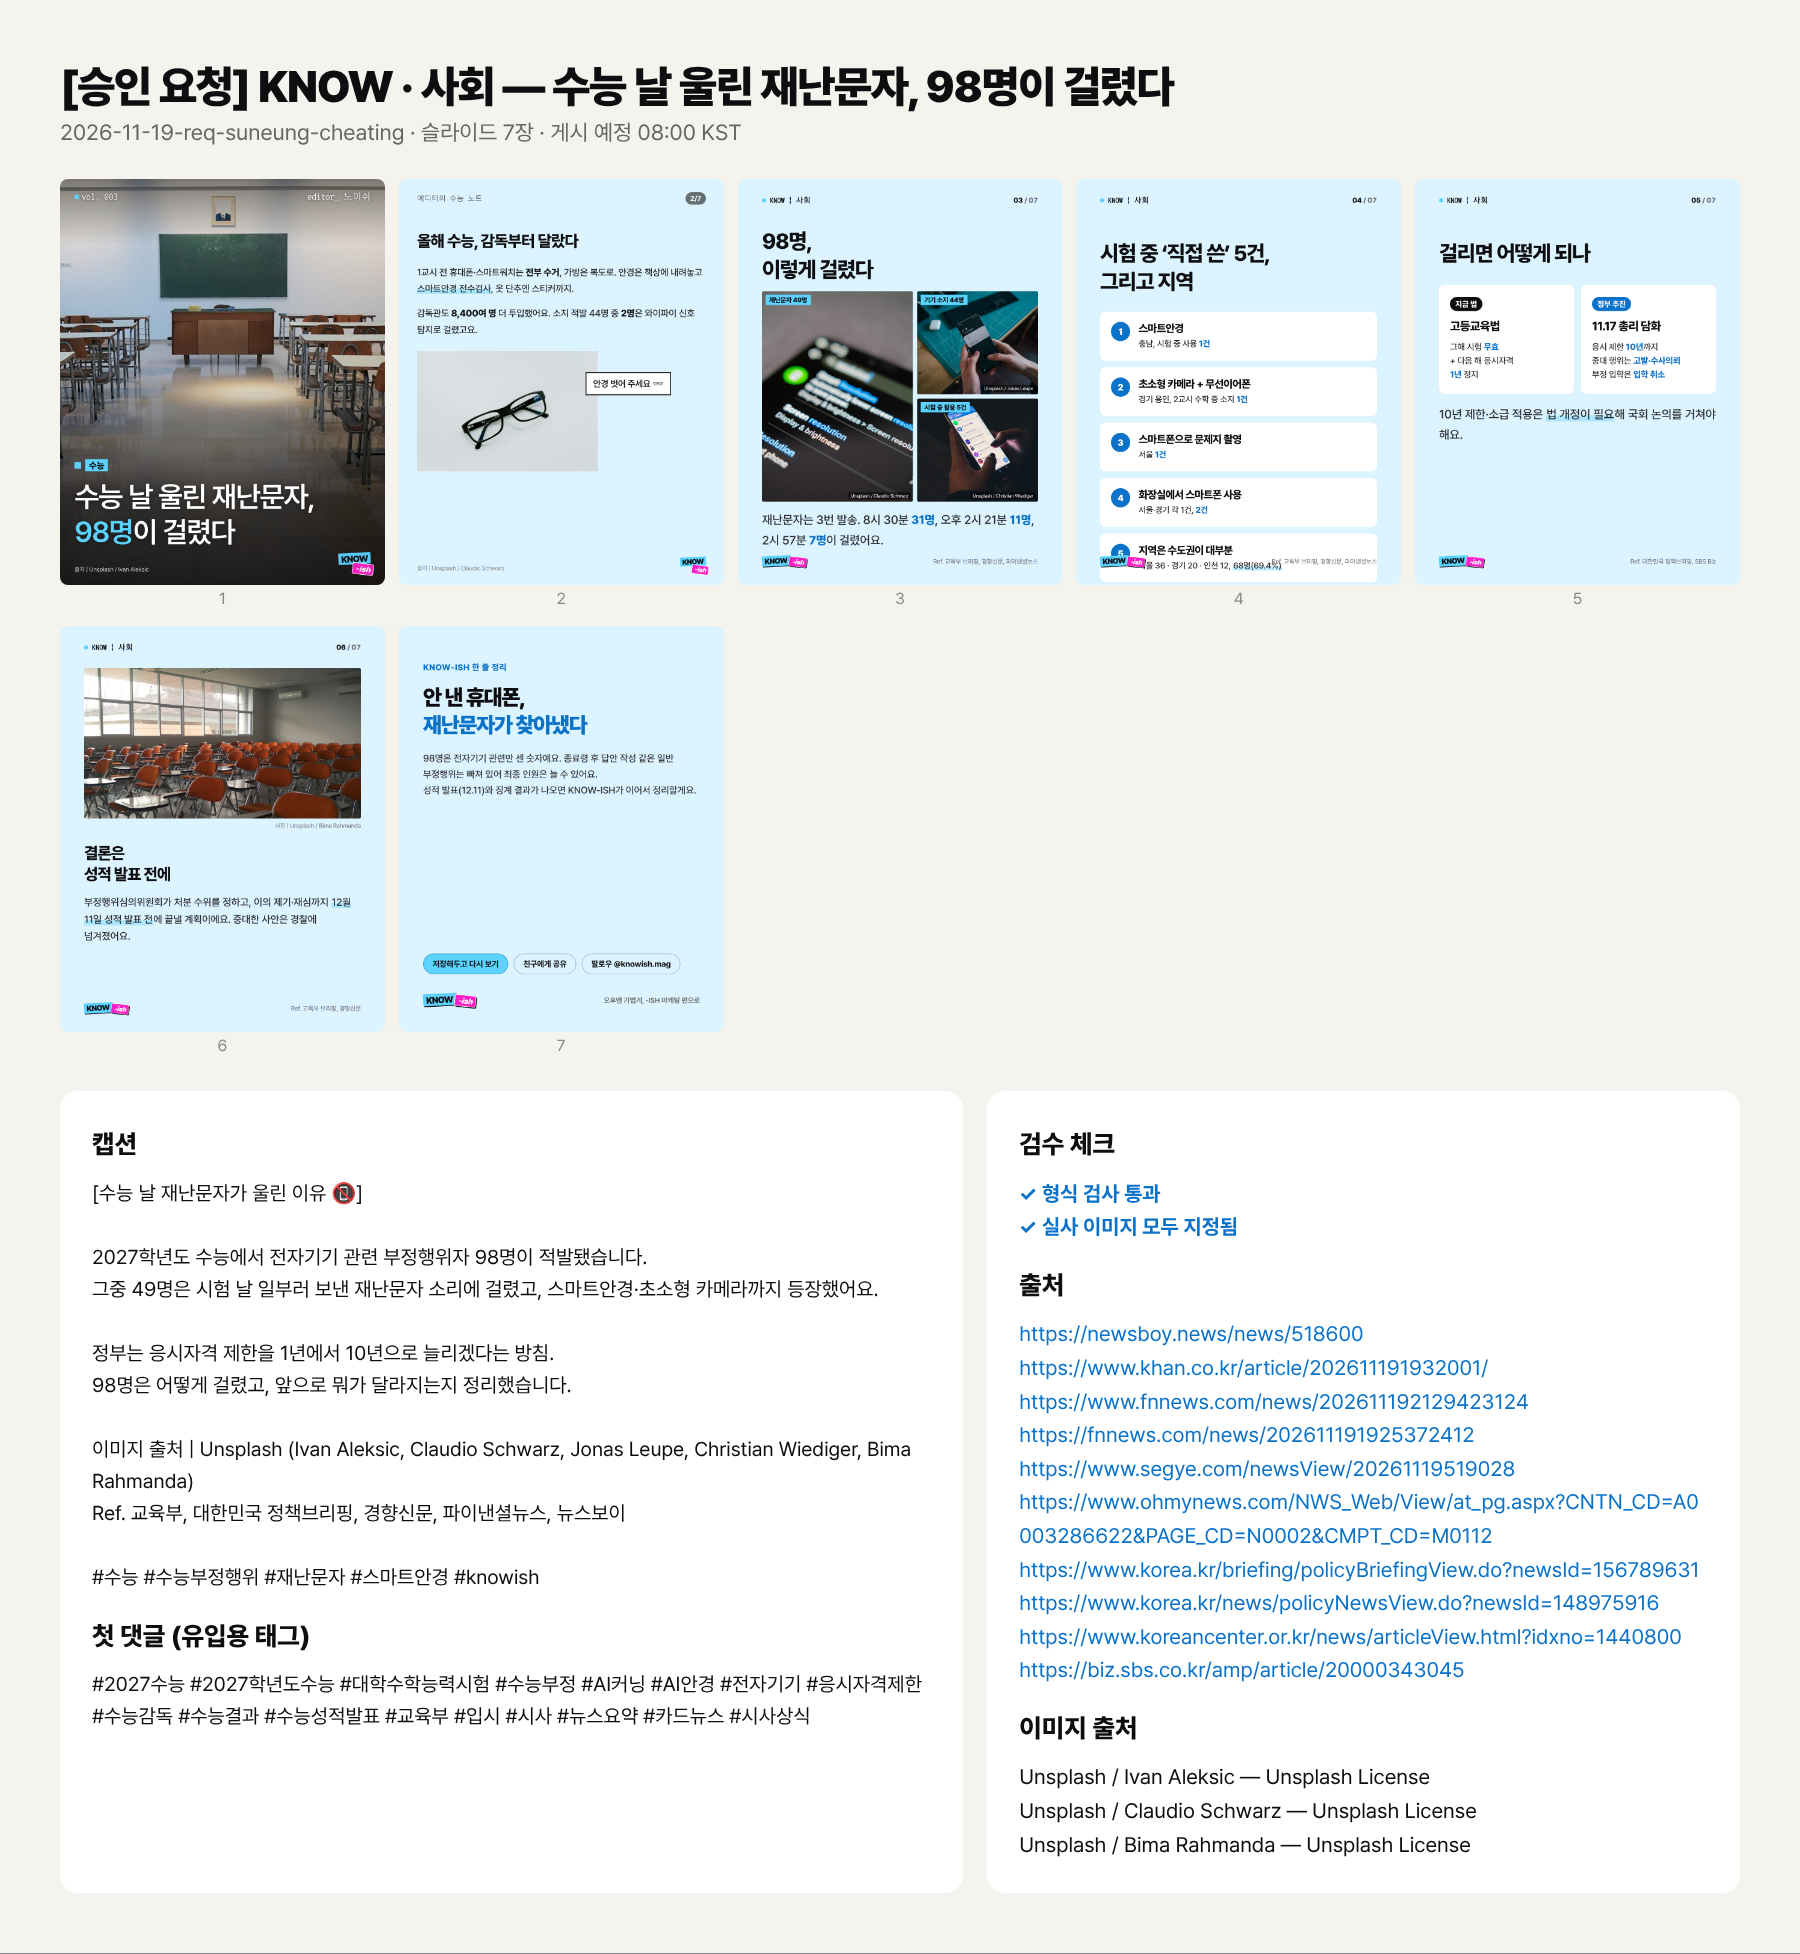
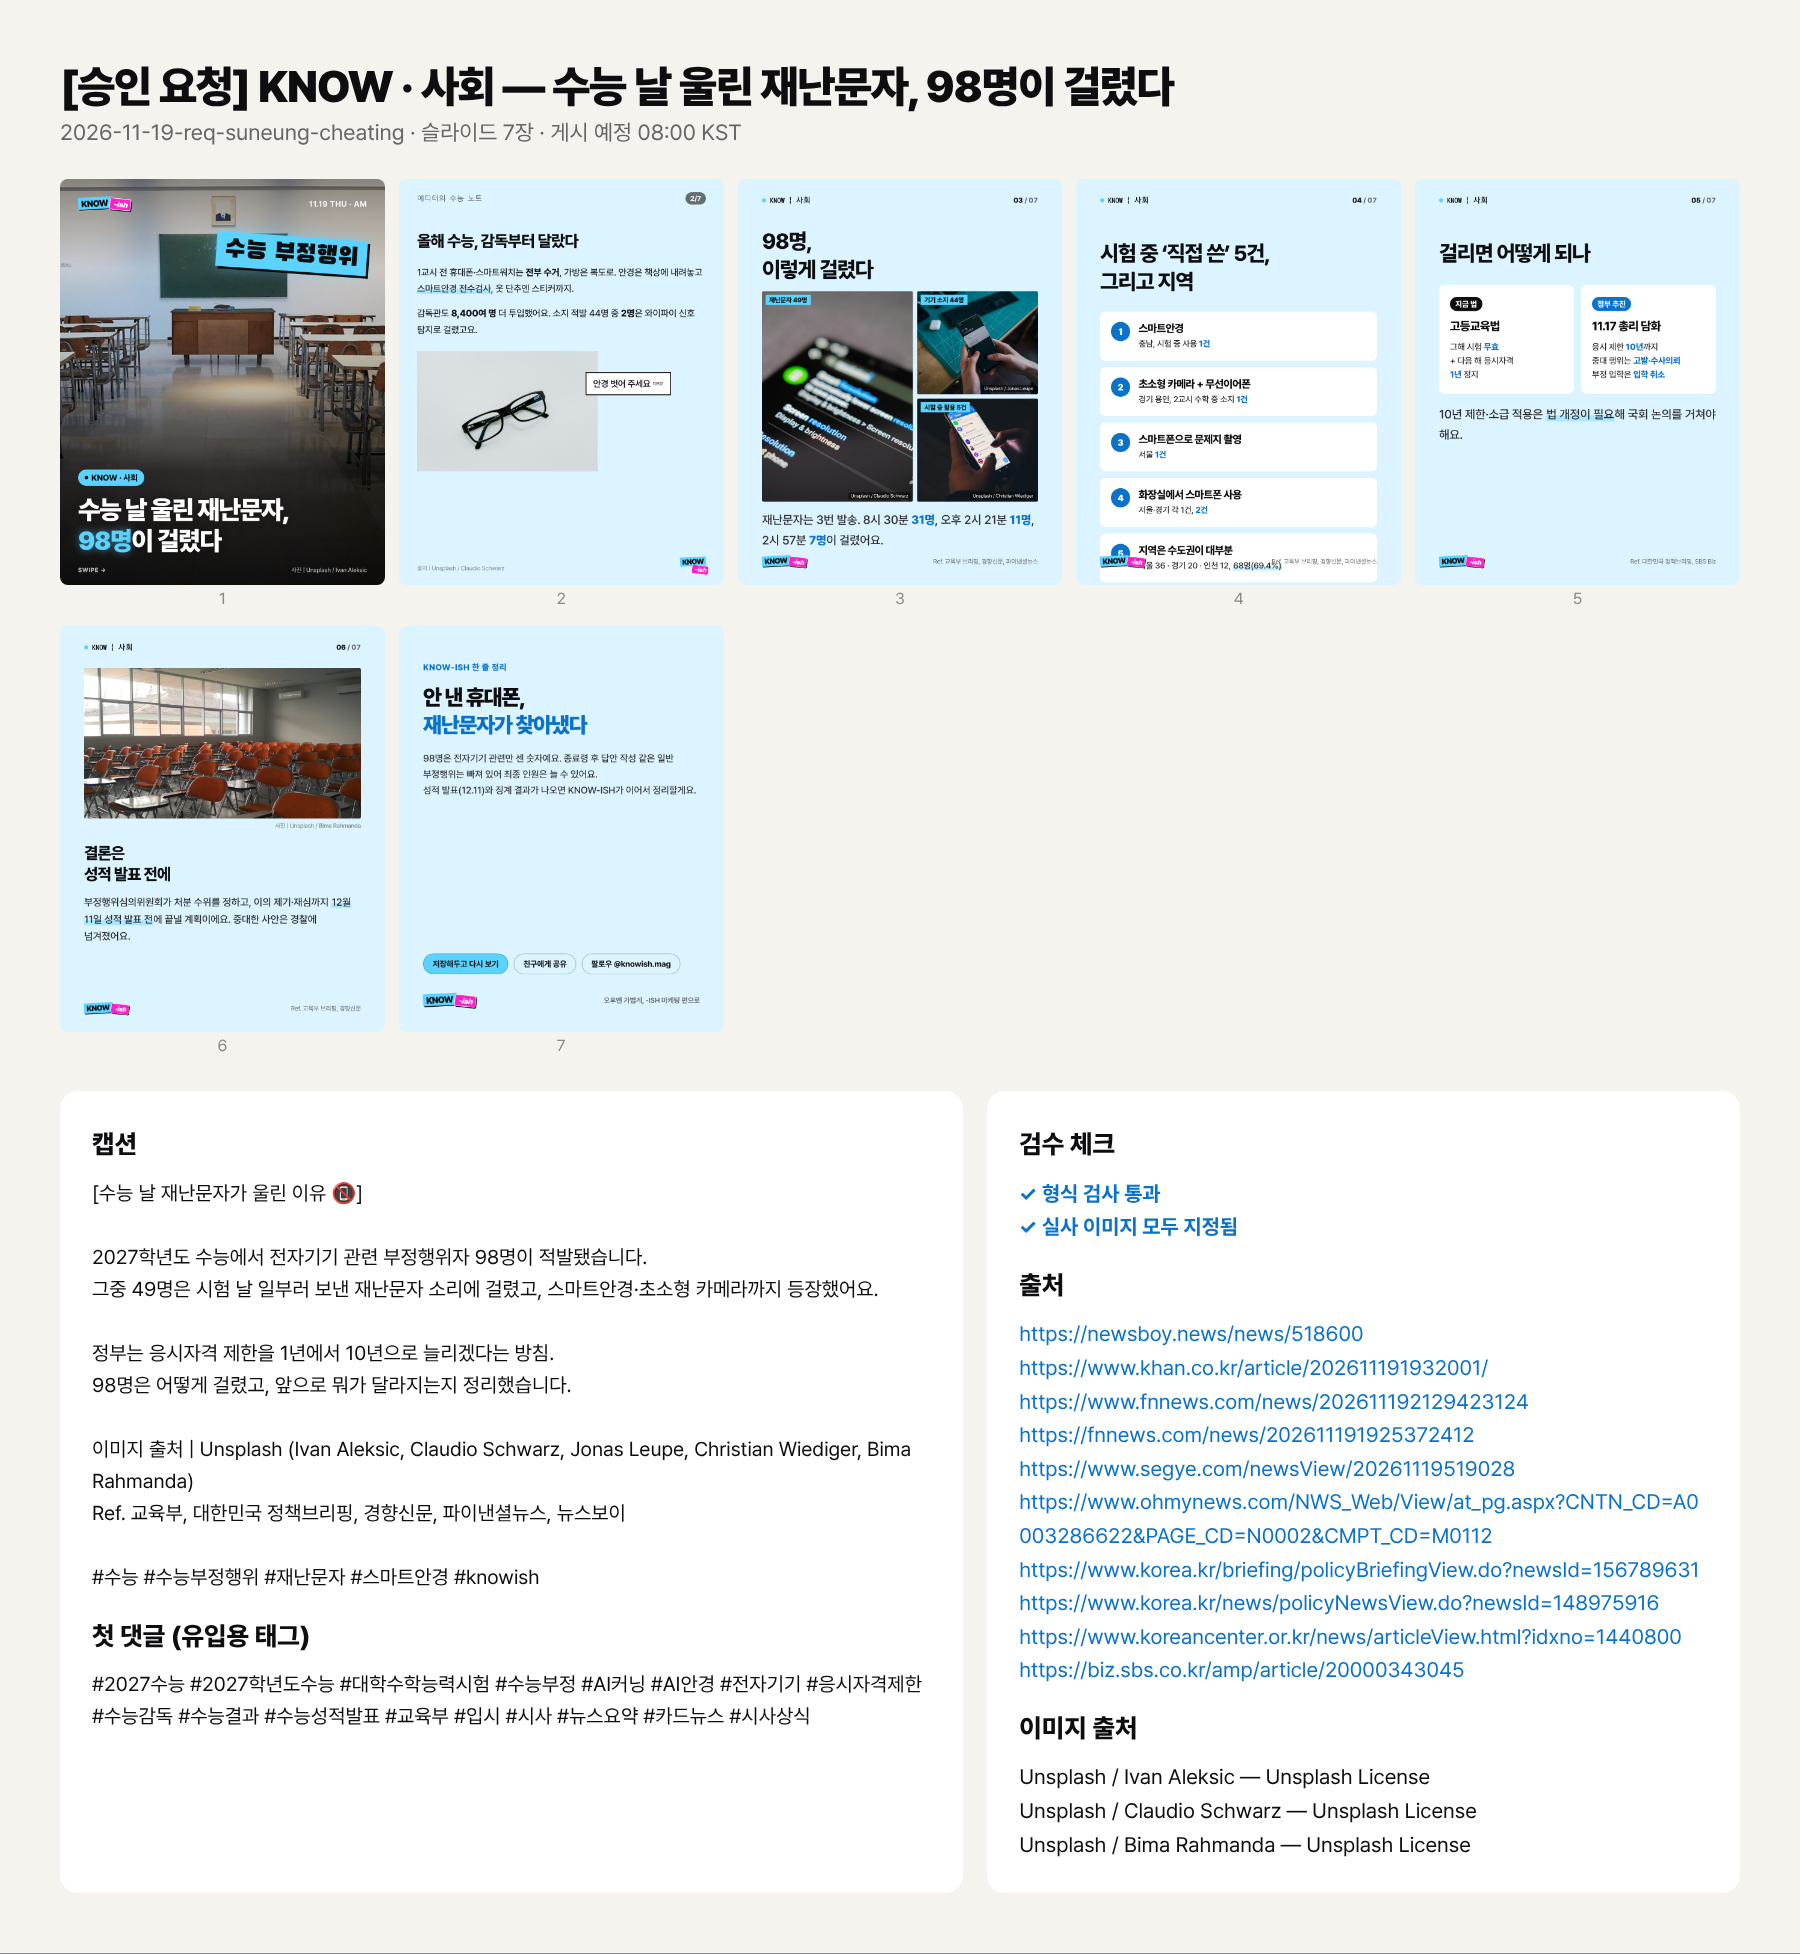
수능 부정행위 카드뉴스: 표지를 classic 썸네일 포맷으로 (cover style 오버라이드 추가)
Claude-Session: https://claude.ai/code/session_019qCDgqTMRH2RJxehPNvjZW

diff --git a/onoff/AUTOMATION.md b/onoff/AUTOMATION.md
@@ -55,6 +55,7 @@
 | `mag` | 에디터 매거진 톤. 말 걸듯 가볍게, 밈 감성 | `vol. NNN` · `editor_ 노이쉬` 라벨, ■ 태그, 얇은 큰 제목, 스티커 없음 | **letter**(파스텔 바탕 에디터 노트), **meme**(사진 2~3칸 + 말풍선), gallery, body, points |
 
 - mag 표지: `tag`(태그 한 단어), 제목 30자 이내. vol 번호는 posts 순서로 자동.
+- mag 게시물이라도 표지만 classic 썸네일(스티커 + 굵은 제목)로 쓰려면 cover 에 `"style": "classic"` 과 `sticker` 를 넣는다.
 - `letter`: `label`(예: "에디터의 팝업 노트"), `title`, `text`(사진 있으면 200자, 없으면 330자), 선택 `image` + `say`(사진 옆 말풍선 한 줄).
 - `meme`: `title`(검은 띠 제목), `panels` 2~3칸 — 각 칸 `image`, `say`(상황), `react`(→ 반응, `==강조==`는 시리즈 진한색), `side`(l/r).
 - meme 사진도 라이선스 규칙 그대로. 출처 불명 밈 짤(핀터레스트 등)은 쓰지 않는다 — 보도자료·공식 이미지·라이선스 스톡·AI 생성 이미지만.
